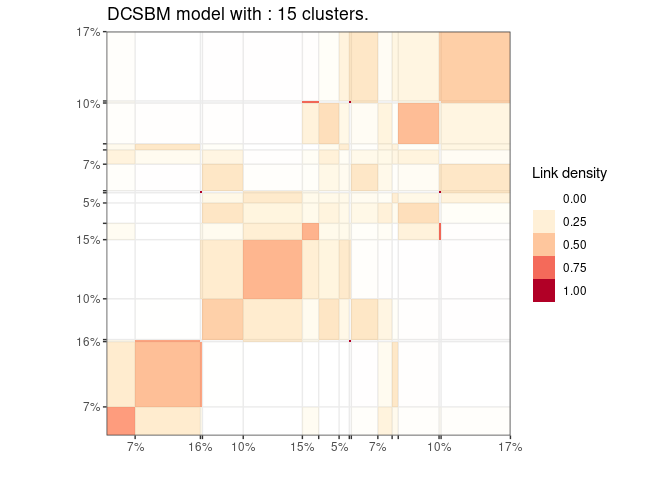
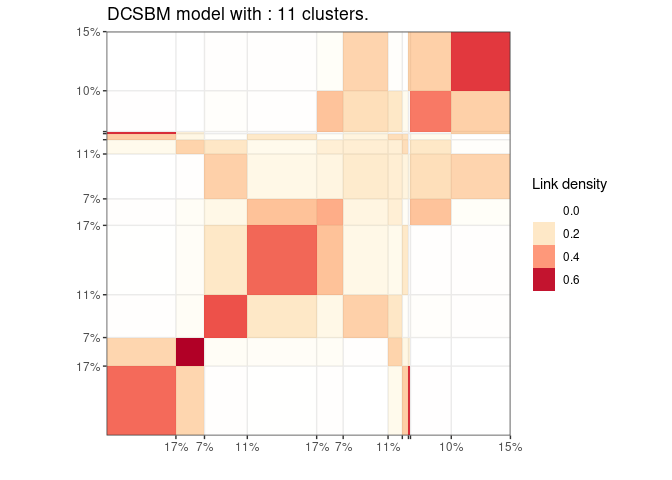
cran remarks corrections

diff --git a/README.md b/README.md
@@ -13,8 +13,9 @@ Greed enables model based clustering of networks, matrices of count data
 and much more with different types of generative models. Model selection
 and clustering is performed in combination by optimizing the Integrated
 Classification Likelihood. Details of the algorithms and methods
-proposed by this package can be found in this
-[arxiv 2002.11577](https://arxiv.org/abs/2002.11577) pre-print.
+proposed by this package can be found in Côme, Jouvin, Latouche, and
+Bouveyron (2021)
+[10.1007/s11634-021-00440-z](https://doi.org/10.1007/s11634-021-00440-z).
 
 The following generative models are available currently :
 
@@ -69,11 +70,17 @@ library(greed)
 data(Jazz)
 sol=greed(Jazz)
 #> ------- undirected DCSBM model fitting ------
-#> ################# Generation  1: best solution with an ICL of -28641 and 17 clusters #################
-#> ################# Generation  2: best solution with an ICL of -28585 and 16 clusters #################
-#> ################# Generation  3: best solution with an ICL of -28585 and 16 clusters #################
+#> ################# Generation  1: best solution with an ICL of -28629 and 17 clusters #################
+#> ################# Generation  2: best solution with an ICL of -28586 and 14 clusters #################
+#> ################# Generation  3: best solution with an ICL of -28583 and 13 clusters #################
+#> ################# Generation  4: best solution with an ICL of -28578 and 13 clusters #################
+#> ################# Generation  5: best solution with an ICL of -28573 and 12 clusters #################
+#> ################# Generation  6: best solution with an ICL of -28573 and 12 clusters #################
+#> ################# Generation  7: best solution with an ICL of -28571 and 13 clusters #################
+#> ################# Generation  8: best solution with an ICL of -28569 and 12 clusters #################
+#> ################# Generation  9: best solution with an ICL of -28569 and 12 clusters #################
 #> ------- Final clustering -------
-#> ICL clustering with a DCSBM model, 15 clusters and an icl of -28557.
+#> ICL clustering with a DCSBM model, 11 clusters and an icl of -28564.
 ```
 
 Here Jazz is a square sparse matrix and a `` ?`dcsbm-class` `` model
@@ -114,11 +121,18 @@ plan(multisession)
 data("Blogs")
 sol=greed(Blogs$X)
 #> ------- directed DCSBM model fitting ------
-#> ################# Generation  1: best solution with an ICL of -84496 and 18 clusters #################
-#> ################# Generation  2: best solution with an ICL of -84273 and 16 clusters #################
-#> ################# Generation  3: best solution with an ICL of -84273 and 16 clusters #################
+#> ################# Generation  1: best solution with an ICL of -84492 and 17 clusters #################
+#> ################# Generation  2: best solution with an ICL of -84301 and 18 clusters #################
+#> ################# Generation  3: best solution with an ICL of -84275 and 18 clusters #################
+#> ################# Generation  4: best solution with an ICL of -84210 and 17 clusters #################
+#> ################# Generation  5: best solution with an ICL of -84160 and 17 clusters #################
+#> ################# Generation  6: best solution with an ICL of -84152 and 20 clusters #################
+#> ################# Generation  7: best solution with an ICL of -84121 and 18 clusters #################
+#> ################# Generation  8: best solution with an ICL of -84117 and 18 clusters #################
+#> ################# Generation  9: best solution with an ICL of -84102 and 17 clusters #################
+#> ################# Generation 10: best solution with an ICL of -84102 and 17 clusters #################
 #> ------- Final clustering -------
-#> ICL clustering with a DCSBM model, 15 clusters and an icl of -84243.
+#> ICL clustering with a DCSBM model, 16 clusters and an icl of -84086.
 plot(sol)
 ```
 

diff --git a/cran-comments.md b/cran-comments.md
@@ -1,3 +1,20 @@
+Dear cran members.
+
+I corrected the two remarks raised by my previous submission. The modification are described bellow. Thanks in advance for your help.
+
+Remark : Please write the reference in the description text in form author(s)
+(year) <arXiv:2002:11577>
+Response : The reference was update in Readme.md to the published version of the paper and in the correct format.
+
+Remark : Please add \value to .Rd files regarding exported methods and explain
+the functions results in the documentation. Please write about the
+structure of the output (class) and also what the output means. (If a
+function does not return a value, please document that too, e.g.
+\value{No return value, called for side effects} or similar)
+Missing Rd-tags:
+      print-icl_path-method.Rd: \value
+Response : The value tag was added to the print-icl_path-method Rd file with the following description (None (invisible NULL). No return value, called for side effects.).
+
 ## Test environments
 
 * ubuntu 20.04 (on github-action), R 4.0.5 
@@ -6,66 +23,50 @@
 * macOS darwin 17 (on github-action), R 4.0.5 
 
 ## R CMD check results
+
+I had one note on installed package size that comes from my usage of RcppArmadillo.
+
 ### macOS-release
 
-❯ checking CRAN incoming feasibility ... NOTE
-  Maintainer: ‘Etienne Côme <etienne.come@univ-eiffel.fr>’
-  
-  Size of tarball: 6660777 bytes
+── R CMD check results ──────────────────────────────────────── greed 0.5.0 ────
+Duration: 7m 9.9s
 
-❯ checking installed package size ... NOTE
-    installed size is  8.6Mb
-    sub-directories of 1Mb or more:
-      data   6.0Mb
-      libs   1.6Mb
-
-0 errors ✔ | 0 warnings ✔ | 2 notes ✖
+0 errors ✔ | 0 warnings ✔ | 0 notes ✔
 
 ### windows-release
-
-❯ checking CRAN incoming feasibility ... NOTE
-  Maintainer: ‘Etienne Côme <etienne.come@univ-eiffel.fr>’
-  
-  Size of tarball: 6509630 bytes
+── R CMD check results ──────────────────────────────────────── greed 0.5.0 ────
+Duration: 13m 24.6s
 
 ❯ checking installed package size ... NOTE
-    installed size is 11.3Mb
+    installed size is 5.5Mb
     sub-directories of 1Mb or more:
-      data   6.0Mb
-      libs   4.6Mb
+      libs  4.6Mb
 
-  
-0 errors ✔ | 0 warnings ✔ | 3 notes ✖
+0 errors ✔ | 0 warnings ✔ | 1 note ✖
 
 ### Ubuntu 20.04-release
-❯ checking CRAN incoming feasibility ... NOTE
-  Maintainer: ‘Etienne Côme <etienne.come@univ-eiffel.fr>’
-  
-  Size of tarball: 6555902 bytes
+
+── R CMD check results ──────────────────────────────────────── greed 0.5.0 ────
+Duration: 6m 23.5s
 
 ❯ checking installed package size ... NOTE
-    installed size is 49.2Mb
+    installed size is 43.5Mb
     sub-directories of 1Mb or more:
-      data   6.0Mb
-      libs  42.4Mb
+      libs  42.5Mb
 
-0 errors ✔ | 0 warnings ✔ | 2 notes ✖
-
+0 errors ✔ | 0 warnings ✔ | 1 note ✖
 
 ### Ubuntu 20.04-devel
 
-❯ checking CRAN incoming feasibility ... NOTE
-  Maintainer: ‘Etienne Côme <etienne.come@univ-eiffel.fr>’
-  
-  Size of tarball: 6555958 bytes
+
+── R CMD check results ──────────────────────────────────────── greed 0.5.0 ────
+Duration: 6m 58.3s
 
 ❯ checking installed package size ... NOTE
-    installed size is 49.2Mb
+    installed size is 43.5Mb
     sub-directories of 1Mb or more:
-      data   6.0Mb
-      libs  42.4Mb
+      libs  42.5Mb
 
-0 errors ✔ | 0 warnings ✔ | 2 notes ✖
-* This is a new release.
+0 errors ✔ | 0 warnings ✔ | 1 note ✖
 
 
